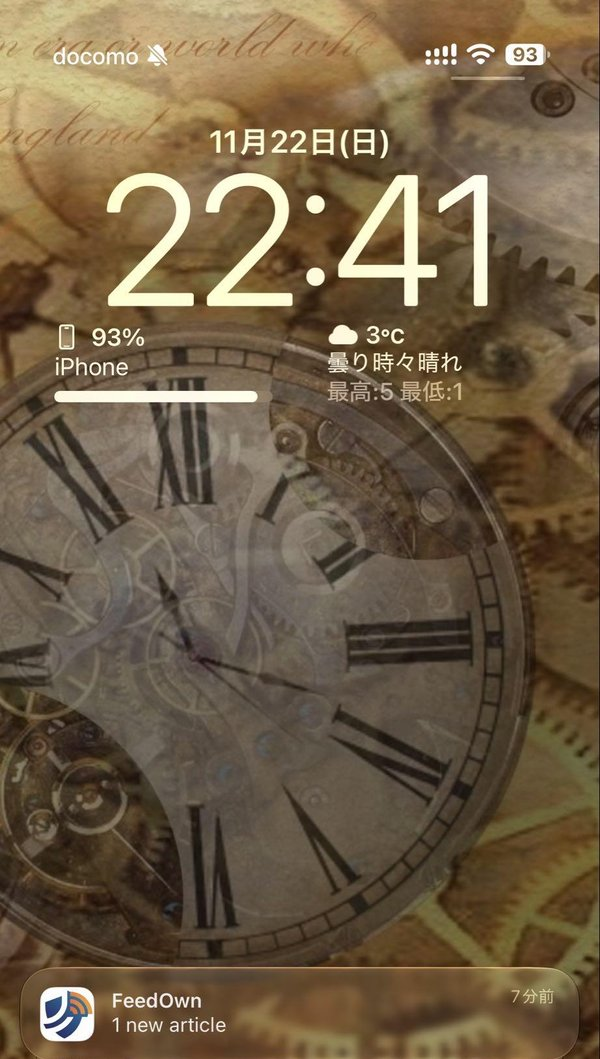
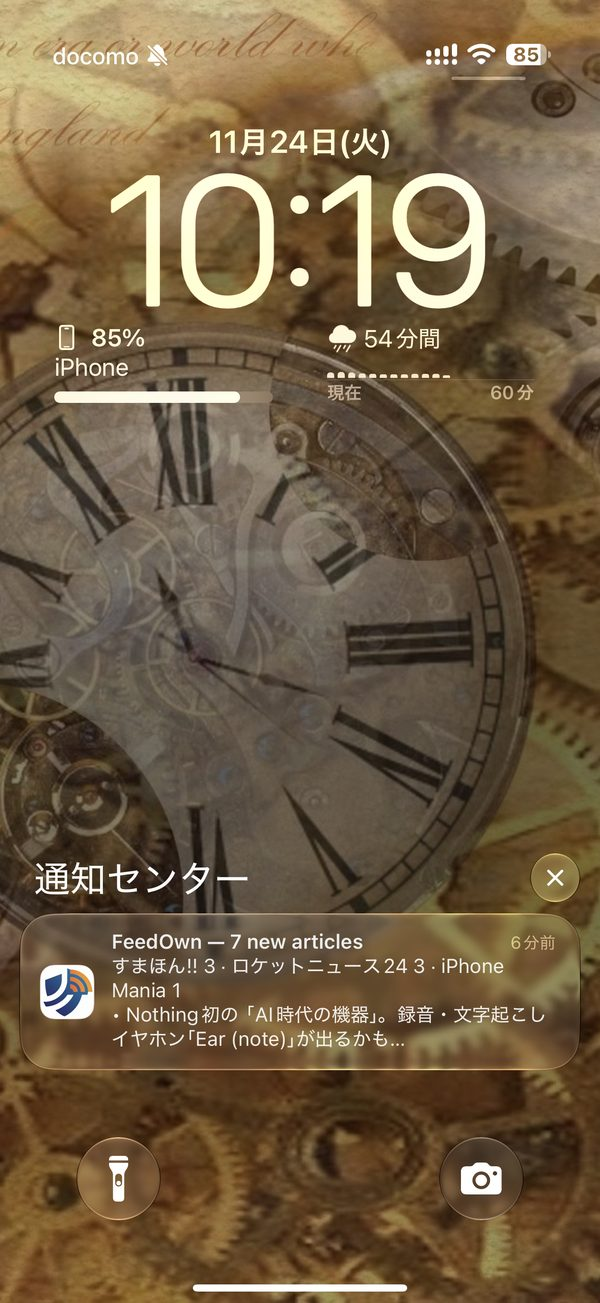
docs(web): show the 1.0.16 notification features on the landing page
Replace the "one N new articles notification" copy with per-feed counts
and titles, keyword alerts, per-feed muting and the home header bell.
New screenshots for the notification, the bell and the settings screen;
the points now sit above a row of three screenshots.

Claude-Session: https://claude.ai/code/session_01QrACbx5nzh4LzNj2yA18jM

diff --git a/apps/web/src/i18n/translations.js b/apps/web/src/i18n/translations.js
@@ -48,12 +48,17 @@ export const translations = {
       bgSubtitle: 'New articles are ready before you open the app.',
       bgPoint1Title: 'Refresh While Closed',
       bgPoint1Desc: 'The mobile app checks your feeds in the background, so the latest articles are waiting when you open it.',
-      bgPoint2Title: 'One Notification, Not Many',
-      bgPoint2Desc: 'Get a single "N new articles" notification once new articles reach a number you choose — 1, 5, 10, 20, or 50.',
-      bgPoint3Title: 'Your Choice',
-      bgPoint3Desc: 'Off by default. Turn notifications off to just prefetch quietly. Notifications are generated on your device — no push server involved.',
+      bgPoint2Title: 'See What’s New at a Glance',
+      bgPoint2Desc: 'One notification shows how many articles each feed added and the latest titles. When only one article arrives, tap it to open that article directly.',
+      bgPoint3Title: 'Keyword Alerts',
+      bgPoint3Desc: 'Add keywords you care about. A new article whose title contains one gets its own notification right away, regardless of the threshold.',
+      bgPoint4Title: 'Per-Feed Control',
+      bgPoint4Desc: 'Mute notifications for individual feeds — their articles are still fetched. The bell in the home header turns notifications on and off in one tap; long press it for settings.',
+      bgPoint5Title: 'Private and Opt-In',
+      bgPoint5Desc: 'Off by default. Choose when to be notified — 1, 5, 10, 20, or 50 new articles — or just prefetch quietly. Notifications are generated on your device; no push server involved.',
       bgShotNotification: 'New Article Notification',
-      bgShotSettings: 'Background Refresh Settings',
+      bgShotHomeBell: 'Notification Bell',
+      bgShotSettings: 'Notification Settings',
       // On-Device AI
       aiTitle: 'On-Device AI',
       aiSubtitle: 'Powered by your device. Your articles never leave your phone.',
@@ -220,12 +225,17 @@ export const translations = {
       bgSubtitle: 'アプリを開く前に、新しい記事が届いている。',
       bgPoint1Title: '閉じている間に更新',
       bgPoint1Desc: 'モバイルアプリがバックグラウンドでフィードをチェック。開いたときには最新の記事が並んでいます。',
-      bgPoint2Title: '通知は1通だけ',
-      bgPoint2Desc: '新着記事が設定した件数（1・5・10・20・50件）に達したら、「N件の新着記事」とまとめて1通だけお知らせします。',
-      bgPoint3Title: '使い方は自由に',
-      bgPoint3Desc: '初期設定はオフ。通知をオフにして、静かに先読みだけさせることもできます。通知は端末内で作られ、プッシュサーバーは使いません。',
+      bgPoint2Title: '新着がひと目でわかる',
+      bgPoint2Desc: 'フィードごとの新着件数と最新記事のタイトルを1通の通知にまとめて表示。新着が1件だけなら、タップでその記事を直接開けます。',
+      bgPoint3Title: 'キーワードアラート',
+      bgPoint3Desc: '気になるキーワードを登録しておけば、タイトルに含む新着記事を件数の設定に関係なくすぐに別の通知でお知らせします。',
+      bgPoint4Title: 'フィードごとに調整',
+      bgPoint4Desc: 'フィード単位で通知をミュート（記事の取得は続きます）。ホーム画面右上のベルで通知をワンタップでオン/オフ、長押しで設定を開きます。',
+      bgPoint5Title: 'プライバシーと選択の自由',
+      bgPoint5Desc: '初期設定はオフ。通知するタイミング（1・5・10・20・50件）を選べるほか、通知なしで静かに先読みだけさせることも。通知は端末内で作られ、プッシュサーバーは使いません。',
       bgShotNotification: '新着記事の通知',
-      bgShotSettings: 'バックグラウンド更新の設定',
+      bgShotHomeBell: '通知ベル',
+      bgShotSettings: '通知の設定',
       // On-Device AI
       aiTitle: 'オンデバイスAI',
       aiSubtitle: 'あなたのデバイスで動く。記事データはスマホの外に出ない。',

diff --git a/apps/web/src/pages/LandingPage.jsx b/apps/web/src/pages/LandingPage.jsx
@@ -1,6 +1,6 @@
 import { useState } from 'react';
 import { Link } from 'react-router-dom';
-import { LuNewspaper, LuStar, LuMoon, LuLock, LuArrowRight, LuBookOpen, LuServer, LuRocket, LuBrain, LuShieldCheck, LuMessagesSquare, LuLanguages, LuList, LuBell, LuRefreshCw, LuSlidersHorizontal } from 'react-icons/lu';
+import { LuNewspaper, LuStar, LuMoon, LuLock, LuArrowRight, LuBookOpen, LuServer, LuRocket, LuBrain, LuShieldCheck, LuMessagesSquare, LuLanguages, LuList, LuBell, LuRefreshCw, LuSlidersHorizontal, LuTag } from 'react-icons/lu';
 import { useTheme } from '../contexts/ThemeContext';
 import { useLanguage } from '../contexts/LanguageContext';
 import { translations } from '../i18n/translations';
@@ -31,6 +31,7 @@ import aiChat from '../assets/images/on_device_ai/04_chat.png';
 import aiTranslation from '../assets/images/on_device_ai/05_translation.png';
 // Background refresh screenshots
 import bgNotification from '../assets/images/background_refresh/notification.jpg';
+import bgHomeBell from '../assets/images/background_refresh/home_bell.jpg';
 import bgSettings from '../assets/images/background_refresh/settings.jpg';
 
 export default function LandingPage() {
@@ -292,20 +293,19 @@ export default function LandingPage() {
       backgroundColor: color.appBg,
     },
     bgContent: {
-      maxWidth: '1000px',
+      maxWidth: '1100px',
       margin: '0 auto',
-      display: 'grid',
-      gridTemplateColumns: isMobile ? '1fr' : '1fr 1fr',
-      gap: isMobile ? '36px' : '56px',
-      alignItems: 'center',
+      display: 'flex',
+      flexDirection: 'column',
+      gap: isMobile ? '40px' : '56px',
     },
     bgPoints: {
       listStyle: 'none',
       margin: 0,
       padding: 0,
-      display: 'flex',
-      flexDirection: 'column',
-      gap: '22px',
+      display: 'grid',
+      gridTemplateColumns: 'repeat(auto-fit, minmax(300px, 1fr))',
+      gap: isMobile ? '22px' : '28px 40px',
     },
     bgPoint: {
       display: 'flex',
@@ -326,7 +326,7 @@ export default function LandingPage() {
     },
     bgScreens: {
       display: 'grid',
-      gridTemplateColumns: '1fr 1fr',
+      gridTemplateColumns: 'repeat(3, 1fr)',
       gap: isMobile ? '14px' : '20px',
       alignItems: 'start',
       justifyItems: 'center',
@@ -653,7 +653,9 @@ export default function LandingPage() {
             {[
               { Icon: LuRefreshCw, title: t.bgPoint1Title, desc: t.bgPoint1Desc },
               { Icon: LuBell, title: t.bgPoint2Title, desc: t.bgPoint2Desc },
-              { Icon: LuSlidersHorizontal, title: t.bgPoint3Title, desc: t.bgPoint3Desc },
+              { Icon: LuTag, title: t.bgPoint3Title, desc: t.bgPoint3Desc },
+              { Icon: LuSlidersHorizontal, title: t.bgPoint4Title, desc: t.bgPoint4Desc },
+              { Icon: LuShieldCheck, title: t.bgPoint5Title, desc: t.bgPoint5Desc },
             ].map(({ Icon, title, desc }) => (
               <li key={title} style={styles.bgPoint}>
                 <span style={styles.bgPointIcon}><Icon /></span>
@@ -667,6 +669,7 @@ export default function LandingPage() {
           <div style={styles.bgScreens}>
             {[
               { src: bgNotification, label: t.bgShotNotification },
+              { src: bgHomeBell, label: t.bgShotHomeBell },
               { src: bgSettings, label: t.bgShotSettings },
             ].map(({ src, label }) => (
               <div key={label} style={styles.mobileScreenshot}>
